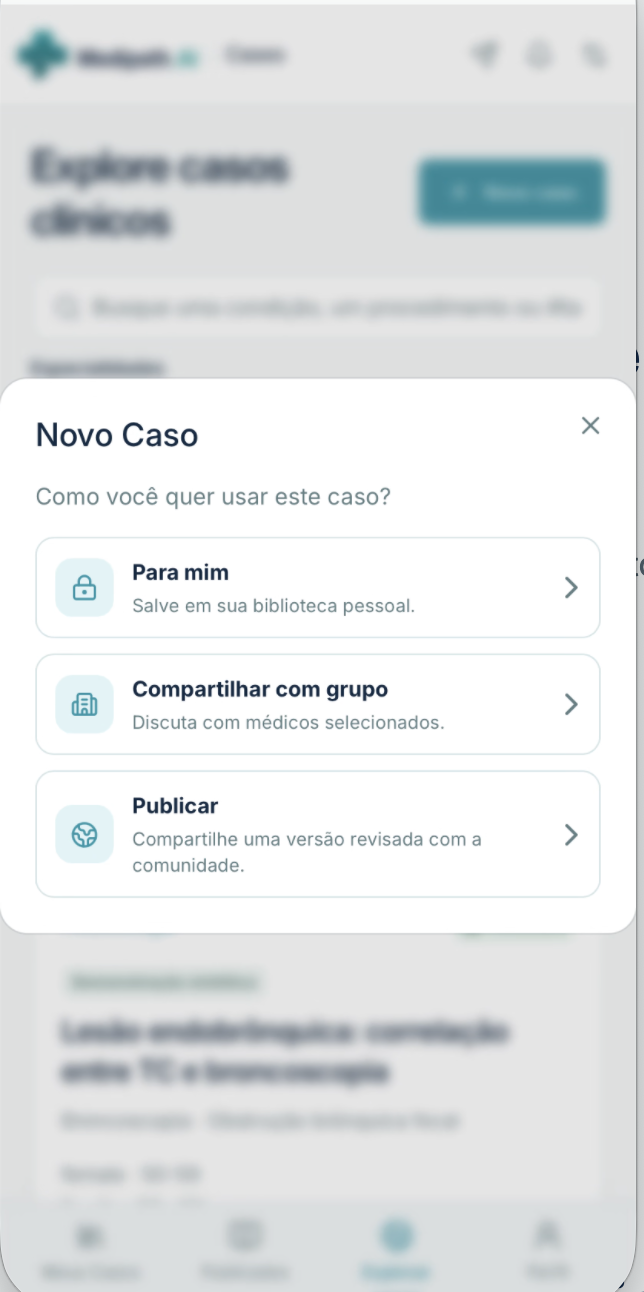
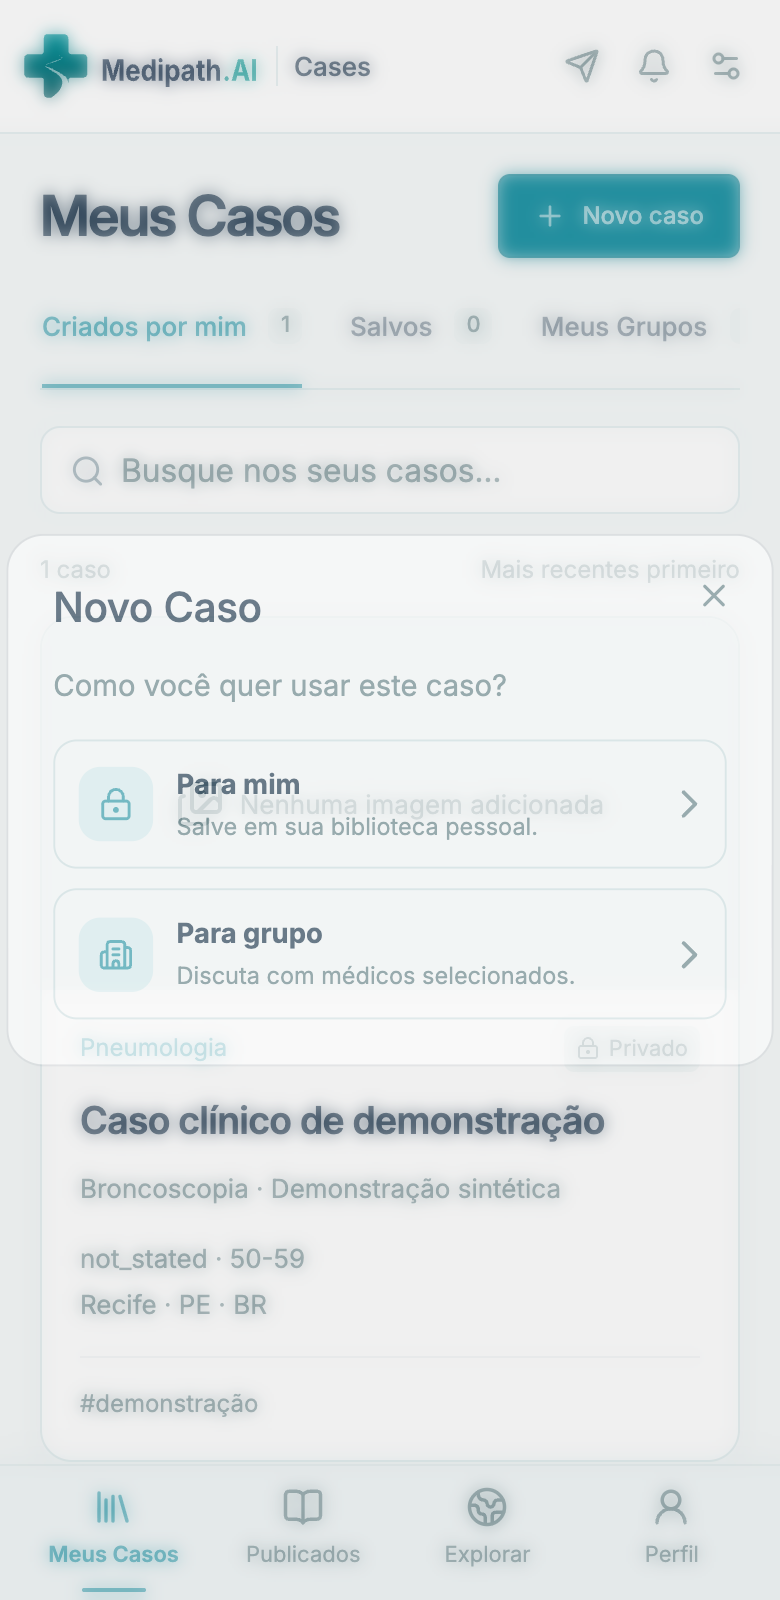
Prepare Cases public launch review

diff --git a/cases/index.html b/cases/index.html
@@ -31,7 +31,7 @@
         <span aria-hidden="true"></span>
         <strong>Cases</strong>
       </a>
-      <a class="header-login" href="https://medipath-cases-private-test.replit.app/">Entrar</a>
+      <a class="header-login" href="https://cases.medipath-ai.com/login?utm_source=medipath-ai&amp;utm_medium=website&amp;utm_campaign=cases_launch&amp;utm_content=header_login">Entrar</a>
     </header>
 
     <main id="top">
@@ -41,8 +41,8 @@
           <h1>Seus casos clínicos. Organizados, compartilhados e sempre ao seu alcance.</h1>
           <p class="lead">Uma biblioteca visual para médicos salvarem casos, compartilharem com grupos privados e aprenderem com experiências de outros profissionais.</p>
           <div class="hero-actions">
-            <a class="button primary" href="https://medipath-cases-private-test.replit.app/">Criar conta grátis</a>
-            <a class="button secondary" href="https://medipath-cases-private-test.replit.app/">Entrar</a>
+            <a class="button primary" href="https://cases.medipath-ai.com/signup?utm_source=medipath-ai&amp;utm_medium=website&amp;utm_campaign=cases_launch&amp;utm_content=hero_signup">Criar conta grátis</a>
+            <a class="button secondary" href="https://cases.medipath-ai.com/login?utm_source=medipath-ai&amp;utm_medium=website&amp;utm_campaign=cases_launch&amp;utm_content=hero_login">Entrar</a>
           </div>
           <p class="free-note">Medipath Cases é gratuito para médicos.</p>
         </div>
@@ -58,7 +58,7 @@
                   <div class="phone-frame"><img src="assets/publicados.png" alt="Tela com casos clínicos visuais publicados por médicos no Medipath Cases" /></div>
                 </figure>
                 <figure class="carousel-slide" role="group" aria-label="3 de 4: Novo Caso" data-carousel-slide>
-                  <div class="phone-frame"><img src="assets/explorar.png" alt="Fluxo Novo Caso com opções para salvar, compartilhar com um grupo ou publicar" /></div>
+                  <div class="phone-frame"><img src="assets/explorar.png" alt="Fluxo Novo Caso com opções para salvar na biblioteca pessoal ou compartilhar com um grupo" /></div>
                 </figure>
                 <figure class="carousel-slide" role="group" aria-label="4 de 4: Grupos" data-carousel-slide>
                   <div class="phone-frame"><img src="assets/grupos.png" alt="Tela Meus Grupos mostrando bibliotecas privadas compartilhadas entre médicos" /></div>
@@ -110,8 +110,8 @@
         <h2 id="cta-title">Crie sua biblioteca clínica.</h2>
         <p>Salve seus casos, colabore com grupos privados e explore aprendizados compartilhados por outros médicos.</p>
         <div class="hero-actions centered">
-          <a class="button primary" href="https://medipath-cases-private-test.replit.app/">Criar conta grátis</a>
-          <a class="button secondary light" href="https://medipath-cases-private-test.replit.app/">Entrar</a>
+          <a class="button primary" href="https://cases.medipath-ai.com/signup?utm_source=medipath-ai&amp;utm_medium=website&amp;utm_campaign=cases_launch&amp;utm_content=final_signup">Criar conta grátis</a>
+          <a class="button secondary light" href="https://cases.medipath-ai.com/login?utm_source=medipath-ai&amp;utm_medium=website&amp;utm_campaign=cases_launch&amp;utm_content=final_login">Entrar</a>
         </div>
         <small>Medipath Cases é gratuito para médicos.</small>
       </section>

diff --git a/cases/cases-carousel.js b/cases/cases-carousel.js
@@ -13,7 +13,7 @@
   const captions = [
     "Sua biblioteca clínica, organizada e sempre acessível.",
     "Descubra casos compartilhados por outros médicos.",
-    "Escolha se deseja salvar, compartilhar com um grupo ou publicar.",
+    "Escolha se deseja salvar na sua biblioteca ou compartilhar com um grupo.",
     "Compartilhe casos em espaços privados com médicos selecionados.",
   ];
   const reducedMotion = window.matchMedia("(prefers-reduced-motion: reduce)");
